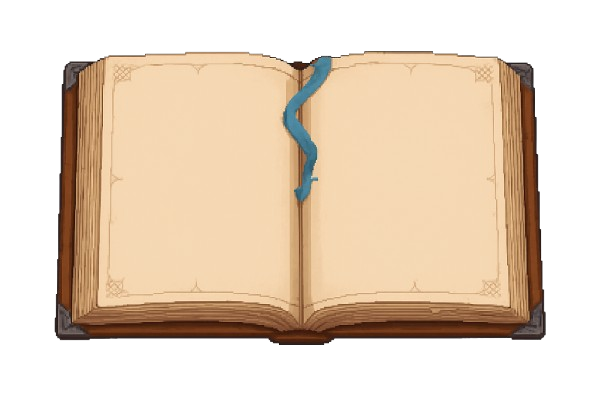
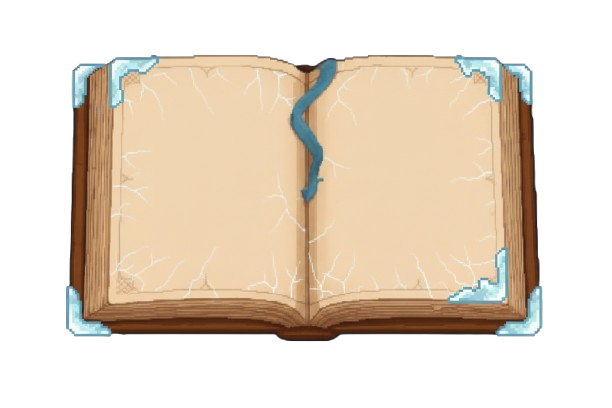
[UPDATED] projects lock

Changed region(s): [[0.0621, 0.1176, 0.9003, 0.8529]]

diff --git a/classic_mode/classic.html b/classic_mode/classic.html
@@ -254,7 +254,7 @@
   <div class="book-container">
     <button id="book-left" class="book-arrow">⟵</button>
 
-    <img id="book-page" class="book-image" src="../assets/projects/locked.png" alt="Project page">
+    <img id="book-page" class="book-image" src="../assets/projects/lock.png" alt="Project page">
     <a id="github-link" class="github-link hidden" href="#" target="_blank">
       <img src="../assets/icons/github.png"  alt="GitHub">
     </a>
